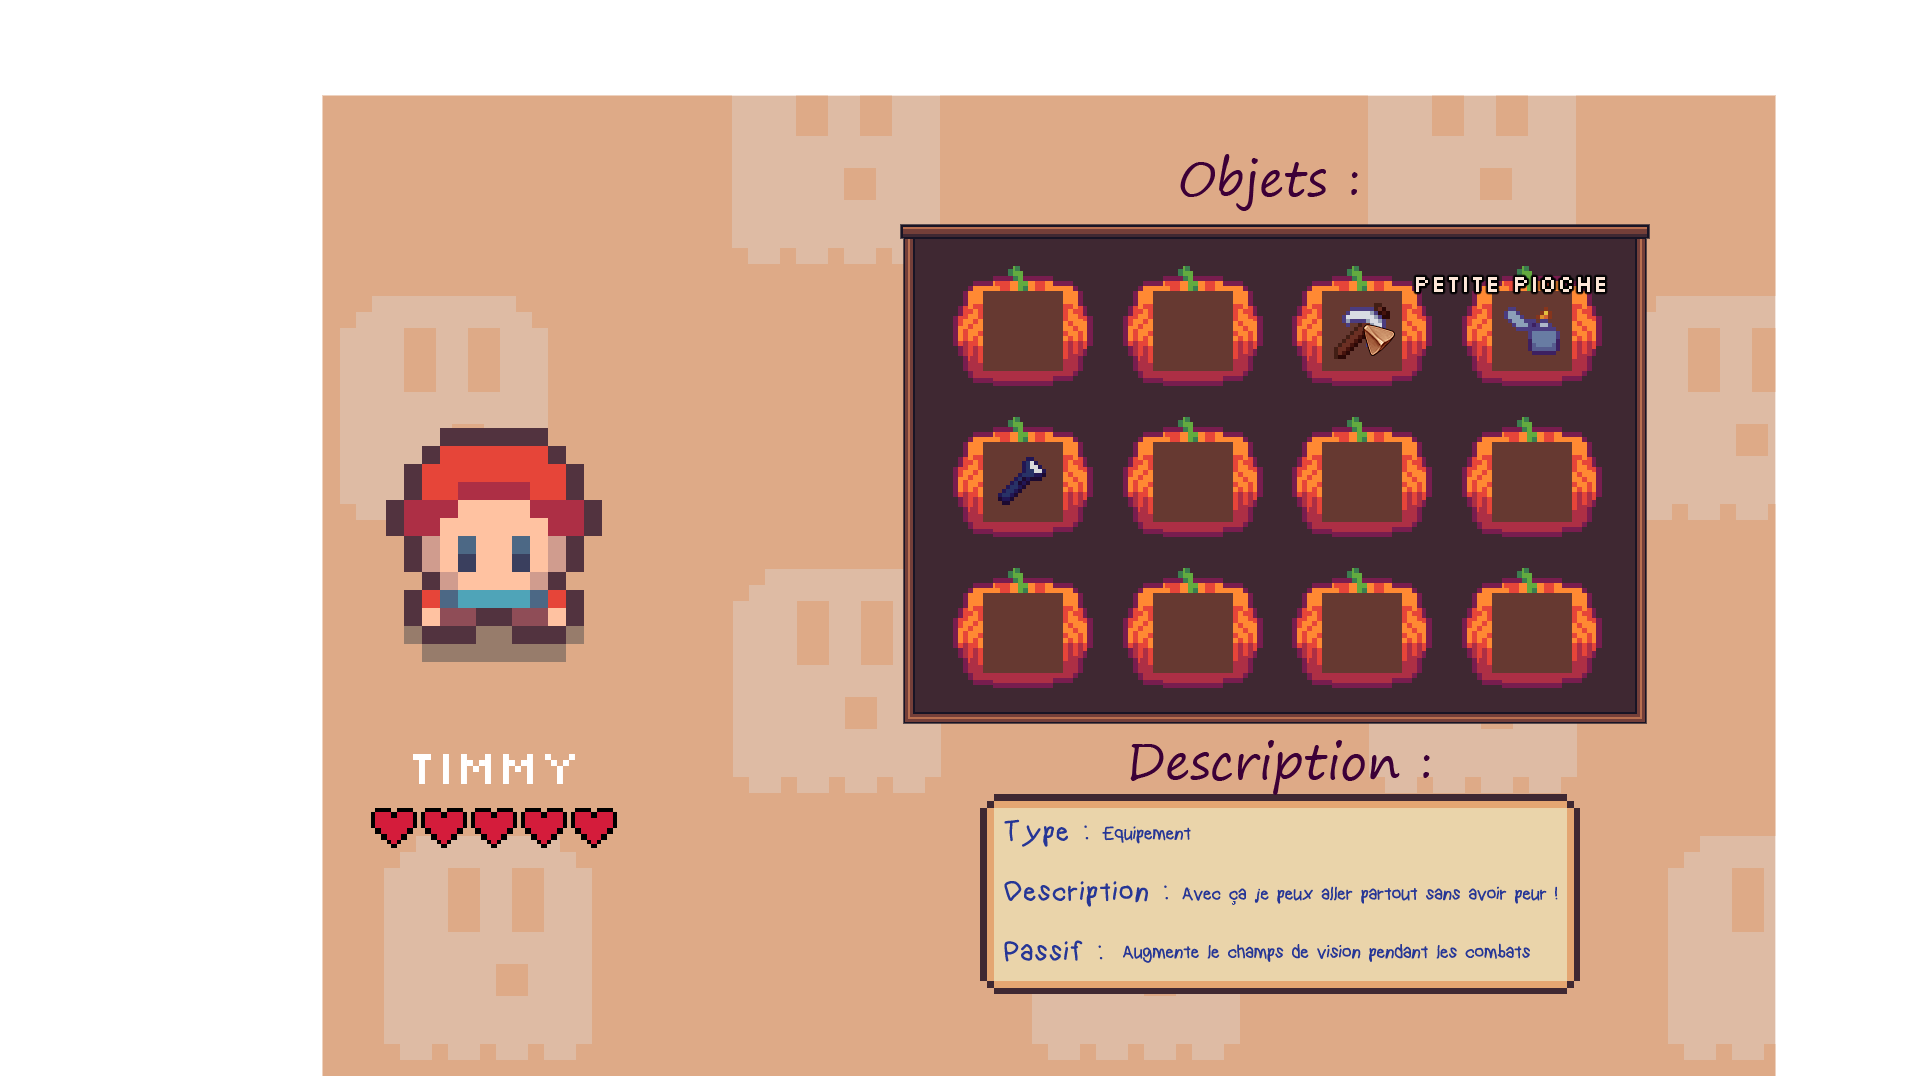
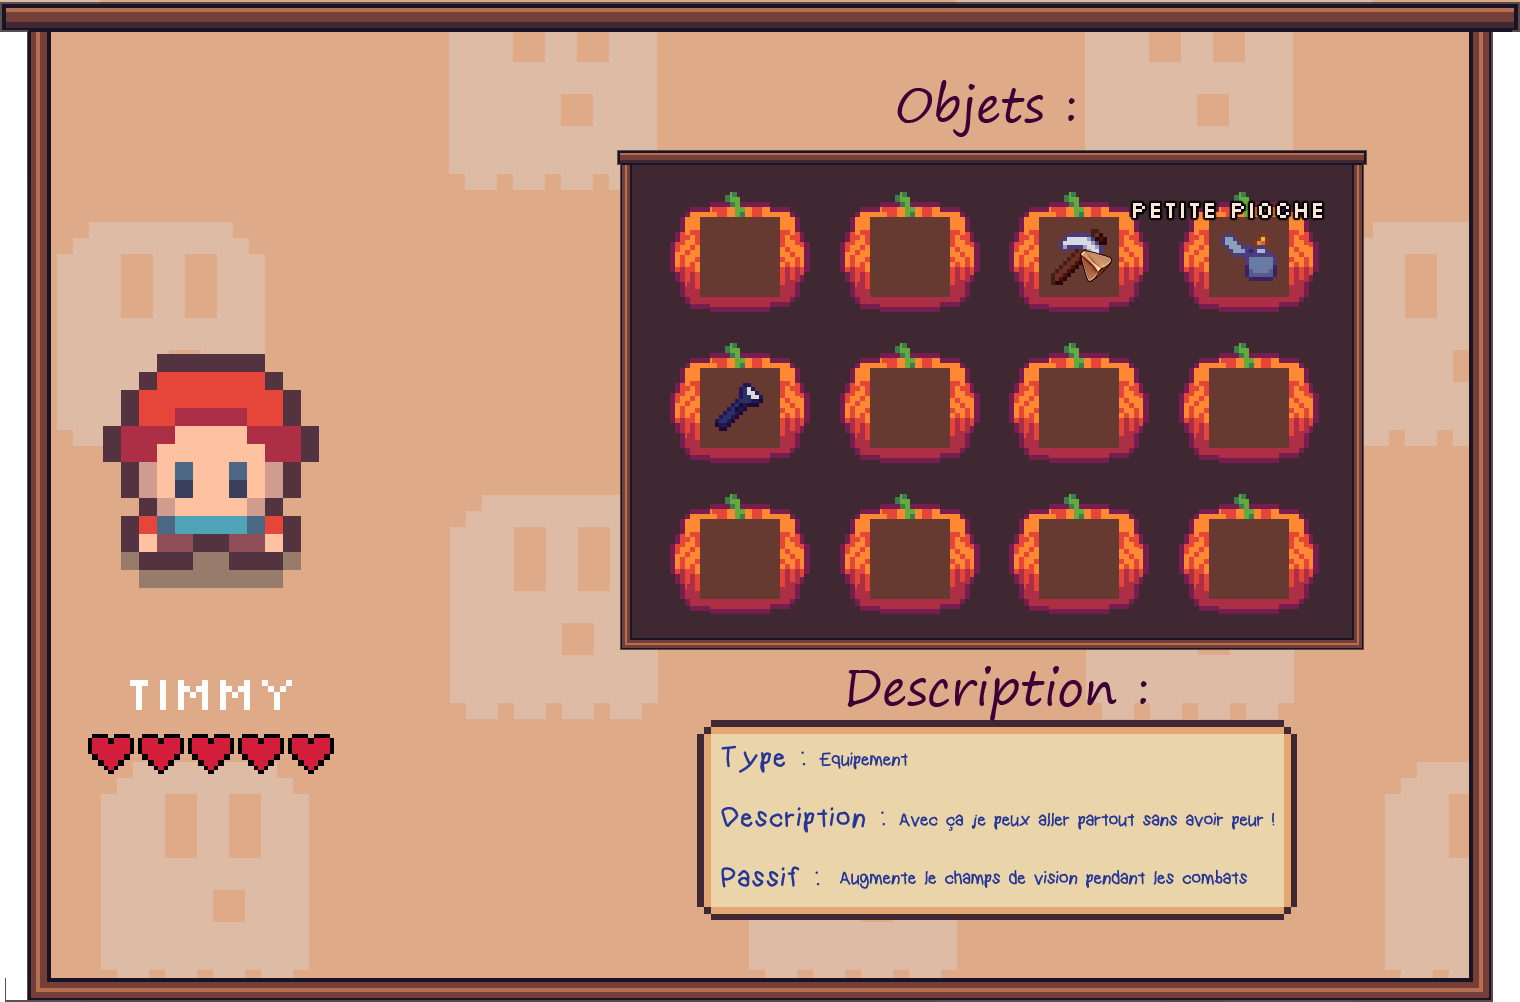
fix save

diff --git a/src/htp/init_elem_htp.c b/src/htp/init_elem_htp.c
@@ -13,12 +13,12 @@ body_t *elem, sfVector2u size)
 {
     elem[13] = create_body("other/blank.png", (sfIntRect){0, 0, 200, 100},
     (sfVector2f){1300, 300});
-    elem[14] = create_body("other/blank.png", (sfIntRect){0, 0, 1917, 1076},
+    elem[14] = create_body("other/blank.png", (sfIntRect){0, 0, 1520, 1002},
     (sfVector2f){650, 400});
     elem[15] = create_body("text/tutoriel.png", (sfIntRect){0, 0, 469, 43},
     (sfVector2f){size.x * 0.4, size.y * 0.10});
-    Set_Scale(elem[15].sprite, 2, 2)
     Set_Scale(elem[14].sprite, 0.4, 0.4);
+    Set_Scale(elem[15].sprite, 2, 2);
     return (elem);
 }
 

diff --git a/src/htp/event_htp.c b/src/htp/event_htp.c
@@ -73,7 +73,7 @@ void event_htp(game_t *g)
         g->scene[g->curent_scene].elem[13] = create_body("other/blank.png",
         (sfIntRect){0, 0, 200, 100}, (sfVector2f){1300, 300});
         g->scene[g->curent_scene].elem[14] = create_body("other/blank.png",
-        (sfIntRect){0, 0, 1917, 1076}, (sfVector2f){650, 400});
+        (sfIntRect){0, 0, 1521, 1003}, (sfVector2f){650, 400});
         Set_Scale(g->scene[g->curent_scene].elem[14].sprite, 0.4, 0.4);
     }
     event_htp_2(g);

diff --git a/src/main.c b/src/main.c
@@ -74,7 +74,6 @@ void parse_save(game_t *g)
     int j = 2;
     size_t len = 0;
     char *buffer = NULL;
-    printf("%s\n", g->save_file);
     FILE *file = fopen(g->save_file, "r");
     int end_buffer = getline(&buffer, &len, file);
 
